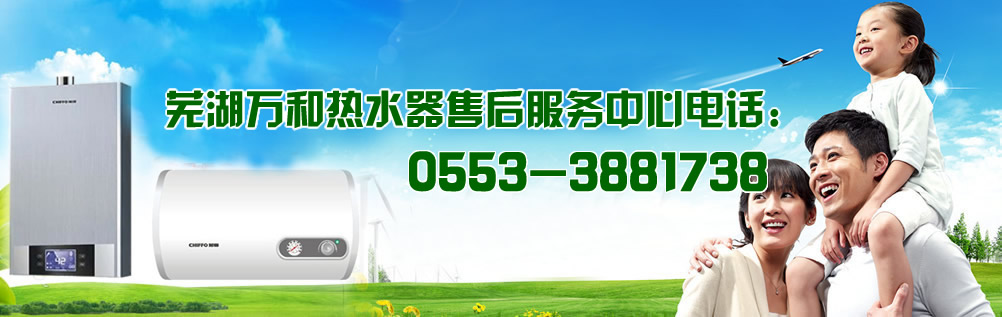
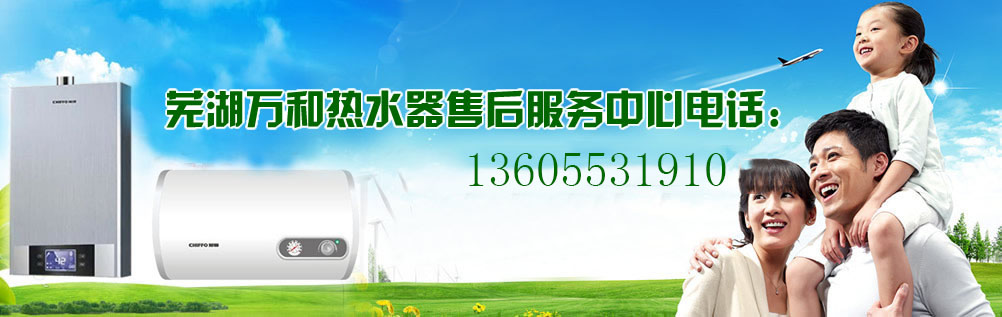
修改联系电话

Changed region(s): [[0.4022, 0.4543, 0.7735, 0.6246]]

diff --git a/src/main/web/src/views/contact-us/contact-us.vue b/src/main/web/src/views/contact-us/contact-us.vue
@@ -3,11 +3,9 @@
   	<img src="../../img/维修.jpg" style="width: 1000px;margin-top: -40px"/>
     <div class="contact-us" style="margin-left:30px">
       <h3 style="font-family: 宋体">热水器维修</h3>
-      <p>安徽芜湖办事处</p>
-      <p>电　话：400-8888-888</p>
+      <p>芜湖市九华中路126号</p>
       <p>联系人：章经理</p>
-      <p>400免费热线：400-8888-888</p>
-      <p>手　机：18888888888</p>
+      <p>手　机：13605531910</p>
     </div>
     <h3>第一步：拨打维修中心服务电话</h3>
     &emsp;我们的服务遍及全市，各区都有分点，提供上门服务，郊区也仅仅收取适当的上门费，
